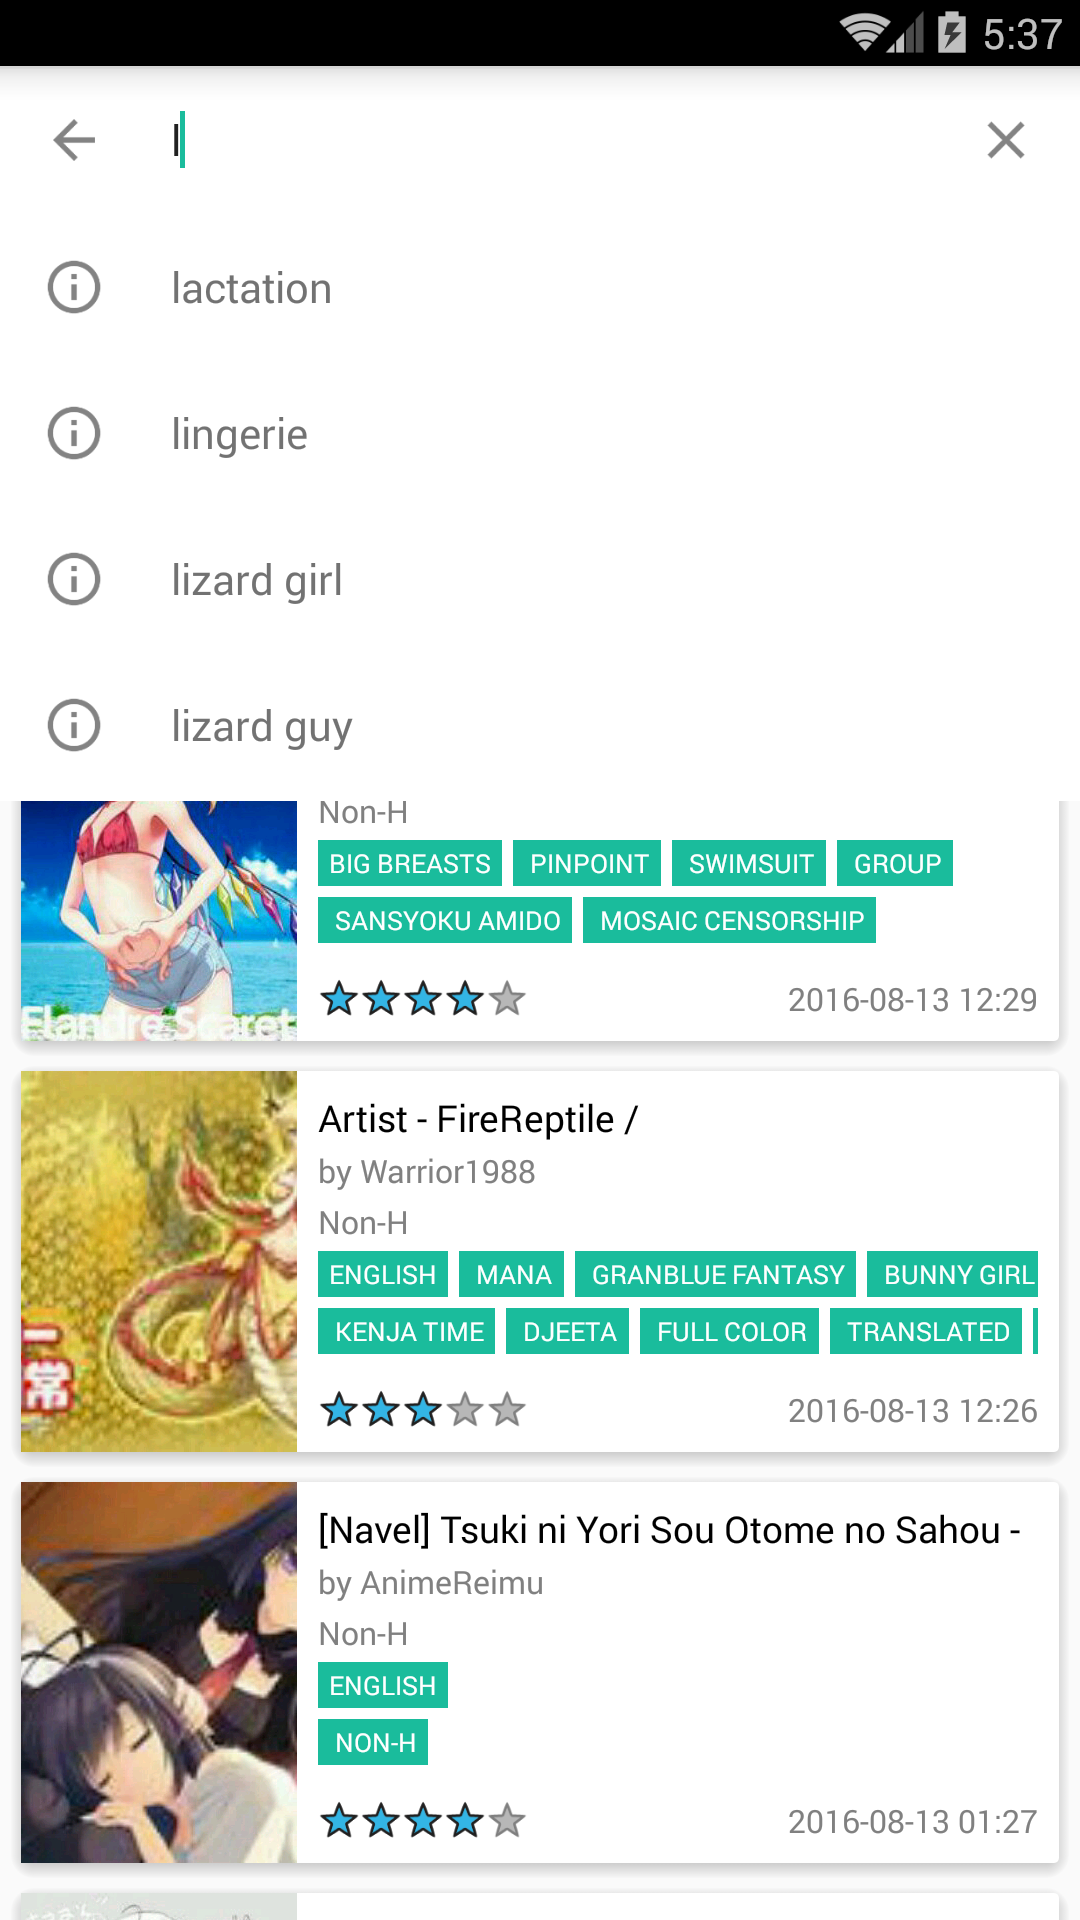
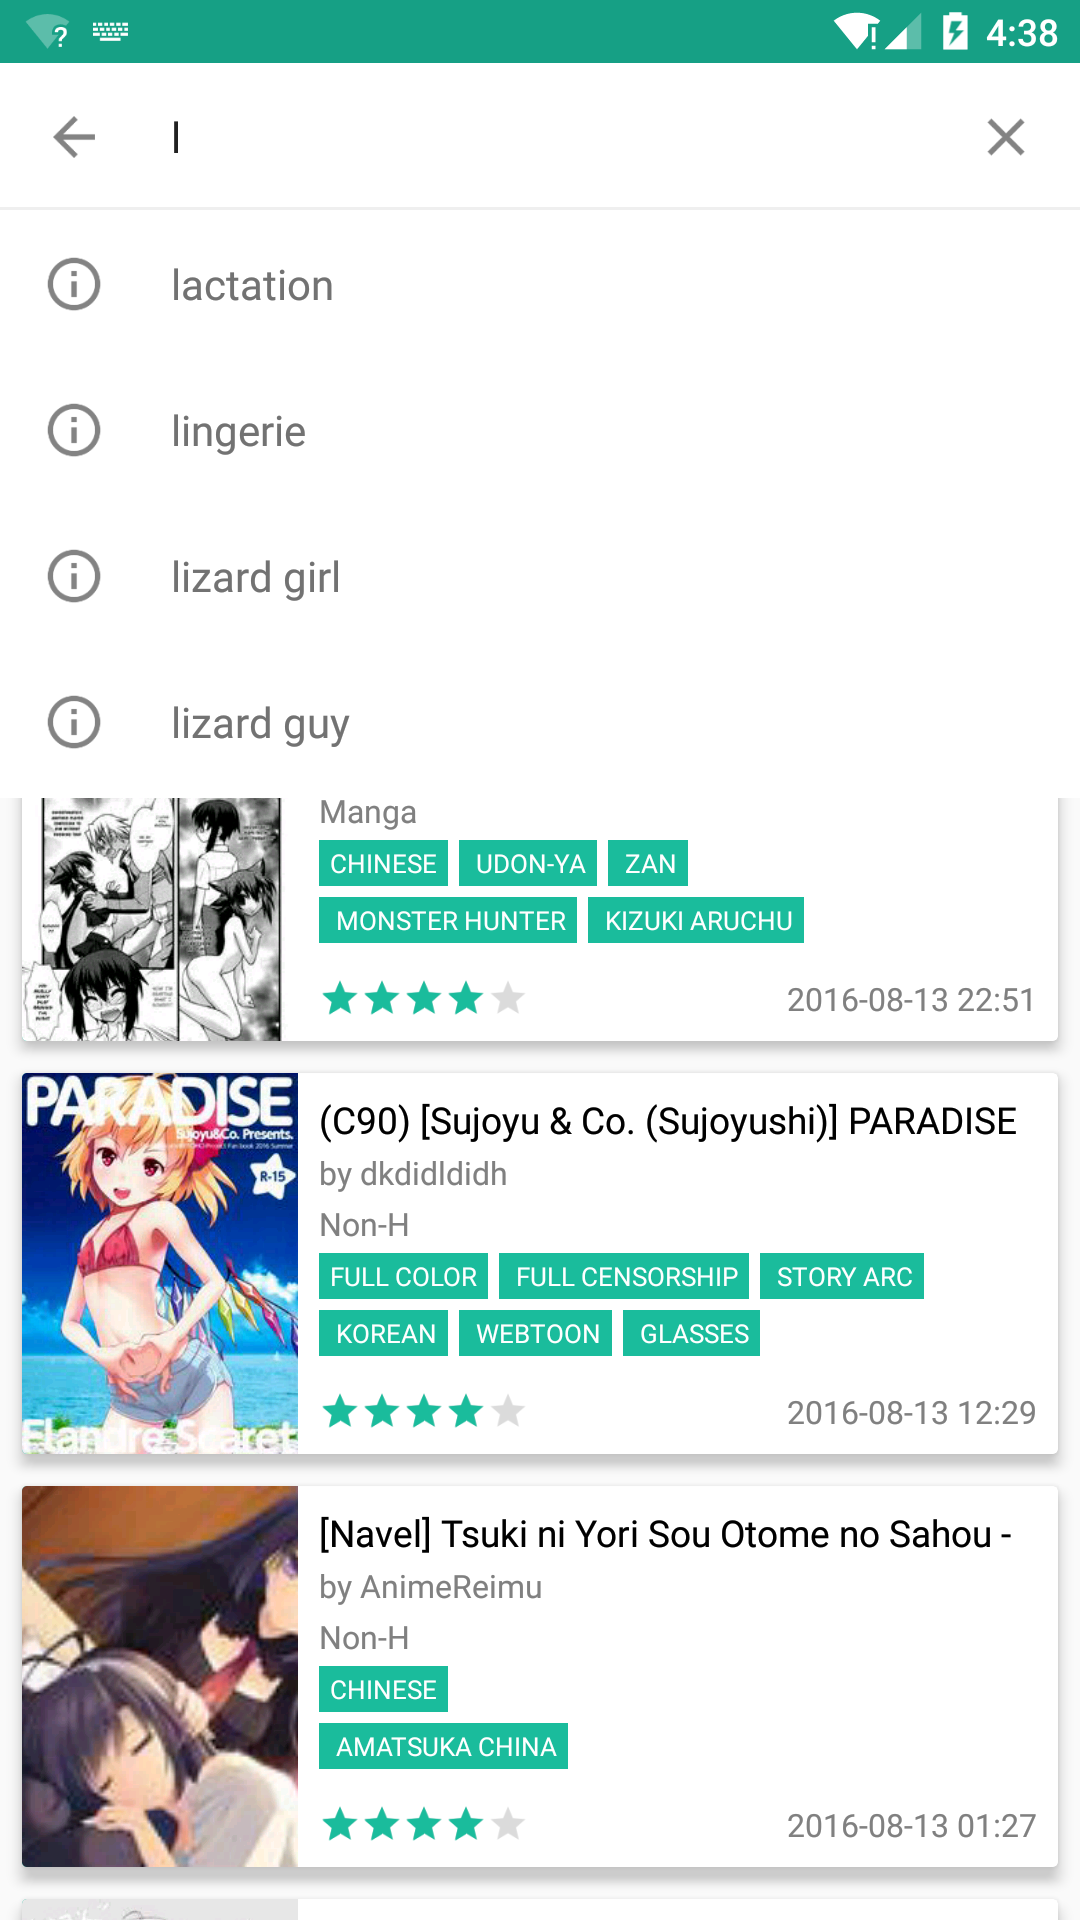
compatibility for 4.4 to 6.0 transparent status bar

diff --git a/app/src/main/java/ml/puredark/hviewer/helpers/MDStatusBarCompat.java b/app/src/main/java/ml/puredark/hviewer/helpers/MDStatusBarCompat.java
@@ -1,0 +1,167 @@
+package ml.puredark.hviewer.helpers;
+
+import android.app.Activity;
+import android.content.Context;
+import android.os.Build;
+import android.support.design.widget.AppBarLayout;
+import android.support.design.widget.CollapsingToolbarLayout;
+import android.support.design.widget.CoordinatorLayout;
+import android.support.v4.content.ContextCompat;
+import android.support.v4.view.ViewCompat;
+import android.support.v7.widget.Toolbar;
+import android.view.View;
+import android.view.ViewGroup;
+import android.widget.FrameLayout;
+import android.widget.ImageView;
+
+import ml.puredark.hviewer.R;
+
+/**
+ * @author 幸运Science-陈土燊
+ * @description
+ * @email chentushen.science@gmail.com,274240671@qq.com
+ * @data 2016/4/14
+ */
+public class MDStatusBarCompat {
+
+    private static View mStatusBarView;
+
+    /**
+     * 简单型状态栏(ToolBar)
+     *
+     * @param activity
+     */
+    public static void setOrdinaryToolBar(Activity activity) {
+        if (Build.VERSION.SDK_INT >= Build.VERSION_CODES.LOLLIPOP) {
+            activity.getWindow().setStatusBarColor(ContextCompat.getColor(activity, R.color.colorPrimaryDark));
+        } else if (Build.VERSION.SDK_INT == Build.VERSION_CODES.KITKAT) {
+            setKKStatusBar(activity, R.color.colorPrimaryDark);
+        }
+    }
+
+    /**
+     * 图片全屏透明状态栏（图片位于状态栏下面）
+     *
+     * @param activity
+     */
+    public static void setImageTransparent(Activity activity) {
+        if (Build.VERSION.SDK_INT >= Build.VERSION_CODES.LOLLIPOP) {
+            activity.getWindow().getDecorView().setSystemUiVisibility(View.SYSTEM_UI_FLAG_LAYOUT_FULLSCREEN);
+        }
+    }
+
+    /**
+     * 图片全屏半透明状态栏（图片位于状态栏下面）
+     *
+     * @param activity
+     */
+    public static void setImageTranslucent(Activity activity) {
+        if (Build.VERSION.SDK_INT >= Build.VERSION_CODES.LOLLIPOP) {
+            activity.getWindow().getDecorView().setSystemUiVisibility(View.SYSTEM_UI_FLAG_LAYOUT_FULLSCREEN);
+            activity.getWindow().setStatusBarColor(ContextCompat.getColor(activity, R.color.statusBar));
+        } else {
+            setKKStatusBar(activity, R.color.statusBar);
+        }
+    }
+
+    /**
+     * ToolBar+TabLayout状态栏(ToolBar可伸缩)
+     *
+     * @param activity
+     */
+    public static void setToolbarTabLayout(Activity activity) {
+        if (Build.VERSION.SDK_INT >= Build.VERSION_CODES.LOLLIPOP) {
+            activity.getWindow().setStatusBarColor(ContextCompat.getColor(activity, R.color.colorPrimaryDark));
+        }
+    }
+
+    /**
+     * DrawerLayout+ToolBar+TabLayout状态栏(ToolBar可伸缩)
+     *
+     * @param activity
+     * @param coordinatorLayout
+     */
+    public static void setDrawerToolbarTabLayout(Activity activity, CoordinatorLayout coordinatorLayout) {
+        if (Build.VERSION.SDK_INT == Build.VERSION_CODES.KITKAT) {
+            ViewGroup contentLayout = (ViewGroup) activity.findViewById(android.R.id.content);
+            contentLayout.getChildAt(0).setFitsSystemWindows(false);
+            coordinatorLayout.setFitsSystemWindows(true);
+            setKKStatusBar(activity, R.color.statusBar);
+        }
+    }
+
+    /**
+     * DrawerLayout+ToolBar型状态栏
+     *
+     * @param activity
+     */
+    public static void setDrawerToolbar(Activity activity) {
+        if (Build.VERSION.SDK_INT == Build.VERSION_CODES.KITKAT) {
+            ViewGroup contentLayout = (ViewGroup) activity.findViewById(android.R.id.content);
+            contentLayout.getChildAt(0).setFitsSystemWindows(false);
+            setKKStatusBar(activity, R.color.statusBar);
+        }
+    }
+
+    /**
+     * CollapsingToolbarLayout状态栏(可折叠图片)
+     *
+     * @param activity
+     * @param coordinatorLayout
+     * @param appBarLayout
+     * @param imageView
+     * @param toolbar
+     */
+    public static void setCollapsingToolbar(Activity activity, CoordinatorLayout coordinatorLayout,
+                                            AppBarLayout appBarLayout, ImageView imageView, Toolbar toolbar) {
+        if (Build.VERSION.SDK_INT == Build.VERSION_CODES.KITKAT) {
+            coordinatorLayout.setFitsSystemWindows(false);
+            appBarLayout.setFitsSystemWindows(false);
+            imageView.setFitsSystemWindows(false);
+            toolbar.setFitsSystemWindows(true);
+            FrameLayout.LayoutParams lp = (FrameLayout.LayoutParams) toolbar.getLayoutParams();
+            lp.height = (int) (getStatusBarHeight(activity) +
+                    activity.getResources().getDimension(R.dimen.abc_action_bar_default_height_material));
+            toolbar.setLayoutParams(lp);
+            setKKStatusBar(activity, R.color.statusBar);
+            setCollapsingToolbarStatus(appBarLayout);
+        }
+    }
+
+    /**
+     * Android4.4上CollapsingToolbar折叠时statusBar显示和隐藏
+     *
+     * @param appBarLayout
+     */
+    private static void setCollapsingToolbarStatus(AppBarLayout appBarLayout) {
+        ViewCompat.setAlpha(mStatusBarView, 1);
+        appBarLayout.addOnOffsetChangedListener(new AppBarLayout.OnOffsetChangedListener() {
+            @Override
+            public void onOffsetChanged(AppBarLayout appBarLayout, int verticalOffset) {
+                int maxScroll = appBarLayout.getTotalScrollRange();
+                float percentage = (float) Math.abs(verticalOffset) / (float) maxScroll;
+                ViewCompat.setAlpha(mStatusBarView, percentage);
+            }
+        });
+    }
+
+    private static void setKKStatusBar(Activity activity, int statusBarColor) {
+        ViewGroup contentView = (ViewGroup) activity.findViewById(android.R.id.content);
+        mStatusBarView = contentView.getChildAt(0);
+        //改变颜色时避免重复添加statusBarView
+        if (mStatusBarView != null && mStatusBarView.getMeasuredHeight() == getStatusBarHeight(activity)) {
+            mStatusBarView.setBackgroundColor(ContextCompat.getColor(activity, statusBarColor));
+            return;
+        }
+        mStatusBarView = new View(activity);
+        ViewGroup.LayoutParams lp = new ViewGroup.LayoutParams(ViewGroup.LayoutParams.MATCH_PARENT,
+                getStatusBarHeight(activity));
+        mStatusBarView.setBackgroundColor(ContextCompat.getColor(activity, statusBarColor));
+        contentView.addView(mStatusBarView, lp);
+    }
+
+    private static int getStatusBarHeight(Context context) {
+        int resourceId = context.getResources().getIdentifier("status_bar_height", "dimen", "android");
+        return context.getResources().getDimensionPixelSize(resourceId);
+    }
+}

diff --git a/app/src/main/java/ml/puredark/hviewer/activities/CollectionActivity.java b/app/src/main/java/ml/puredark/hviewer/activities/CollectionActivity.java
@@ -4,11 +4,13 @@ import android.content.Intent;
 import android.graphics.Bitmap;
 import android.os.Bundle;
 import android.support.design.widget.AppBarLayout;
+import android.support.design.widget.CoordinatorLayout;
 import android.support.v7.widget.GridLayoutManager;
 import android.support.v7.widget.OrientationHelper;
 import android.support.v7.widget.RecyclerView;
 import android.support.v7.widget.StaggeredGridLayoutManager;
 import android.support.v7.widget.Toolbar;
+import android.util.Log;
 import android.view.View;
 import android.view.animation.Animation;
 import android.view.animation.LinearInterpolator;
@@ -49,12 +51,15 @@ import ml.puredark.hviewer.customs.ScalingImageView;
 import ml.puredark.hviewer.dataproviders.ListDataProvider;
 import ml.puredark.hviewer.helpers.FastBlur;
 import ml.puredark.hviewer.helpers.HViewerHttpClient;
+import ml.puredark.hviewer.helpers.MDStatusBarCompat;
 import ml.puredark.hviewer.helpers.RuleParser;
 import ml.puredark.hviewer.utils.DensityUtil;
 
 
 public class CollectionActivity extends AnimationActivity implements AppBarLayout.OnOffsetChangedListener {
 
+    @BindView(R.id.coordinator_layout)
+    CoordinatorLayout coordinatorLayout;
     @BindView(R.id.backdrop)
     ScalingImageView backdrop;
     @BindView(R.id.toolbar)
@@ -89,6 +94,7 @@ public class CollectionActivity extends AnimationActivity implements AppBarLayou
         super.onCreate(savedInstanceState);
         setContentView(R.layout.activity_collection);
         ButterKnife.bind(this);
+        MDStatusBarCompat.setCollapsingToolbar(this, coordinatorLayout, appBar, backdrop, toolbar);
 
         //获取传递过来的Collection实例
         if (HViewerApplication.temp instanceof Site)
@@ -145,12 +151,13 @@ public class CollectionActivity extends AnimationActivity implements AppBarLayou
                                 public void run() {
                                     backdrop.setImageBitmap(overlay);
                                     /* 让背景的封面大图来回缓慢移动 */
-                                    float targetY = (backdrop.getHeight() > backdrop.getWidth()) ? -0.4f : 0f;
+                                    float targetY = (overlay.getHeight() > overlay.getWidth()) ? -0.4f : 0f;
+                                    Log.d("CollectionActivity", "targetY:" + targetY);
                                     Animation translateAnimation = new TranslateAnimation(TranslateAnimation.RELATIVE_TO_SELF, 0f,
                                             TranslateAnimation.RELATIVE_TO_SELF, 0f,
                                             TranslateAnimation.RELATIVE_TO_SELF, 0f,
                                             TranslateAnimation.RELATIVE_TO_SELF, targetY);
-                                    translateAnimation.setDuration(30000);
+                                    translateAnimation.setDuration(50000);
                                     translateAnimation.setRepeatCount(-1);
                                     translateAnimation.setRepeatMode(Animation.REVERSE);
                                     translateAnimation.setInterpolator(new LinearInterpolator());

diff --git a/app/src/main/java/ml/puredark/hviewer/activities/MainActivity.java b/app/src/main/java/ml/puredark/hviewer/activities/MainActivity.java
@@ -1,12 +1,15 @@
 package ml.puredark.hviewer.activities;
 
+import android.app.Activity;
 import android.content.DialogInterface;
 import android.content.Intent;
 import android.os.Bundle;
 import android.os.Handler;
 import android.support.design.widget.AppBarLayout;
+import android.support.design.widget.CollapsingToolbarLayout;
 import android.support.design.widget.CoordinatorLayout;
 import android.support.design.widget.FloatingActionButton;
+import android.support.v4.content.ContextCompat;
 import android.support.v4.view.GravityCompat;
 import android.support.v4.widget.DrawerLayout;
 import android.support.v7.app.ActionBarDrawerToggle;
@@ -18,6 +21,7 @@ import android.util.Log;
 import android.view.Menu;
 import android.view.MenuItem;
 import android.view.View;
+import android.view.ViewGroup;
 import android.widget.AdapterView;
 import android.widget.ImageView;
 import android.widget.LinearLayout;
@@ -42,6 +46,7 @@ import ml.puredark.hviewer.dataproviders.AbstractDataProvider;
 import ml.puredark.hviewer.dataproviders.ListDataProvider;
 import ml.puredark.hviewer.fragments.CollectionFragment;
 import ml.puredark.hviewer.fragments.MyFragment;
+import ml.puredark.hviewer.helpers.MDStatusBarCompat;
 import ml.puredark.hviewer.holders.SearchHistoryHolder;
 
 import static ml.puredark.hviewer.HViewerApplication.siteHolder;
@@ -53,7 +58,7 @@ public class MainActivity extends AppCompatActivity {
     private static int RESULT_MODIFY_SITE = 2;
 
     @BindView(R.id.content)
-    CoordinatorLayout content;
+    CoordinatorLayout coordinatorLayout;
     @BindView(R.id.drawer_layout)
     DrawerLayout drawer;
     @BindView(R.id.app_bar)
@@ -85,9 +90,7 @@ public class MainActivity extends AppCompatActivity {
         super.onCreate(savedInstanceState);
         setContentView(R.layout.activity_main);
         ButterKnife.bind(this);
-
-        // Initialize user settings
-        //PreferenceManager.setDefaultValues(this, R.xml.preferences, false);
+        MDStatusBarCompat.setCollapsingToolbar(this, coordinatorLayout, appBar, backdrop, toolbar);
 
         // User interface
         setSupportActionBar(toolbar);
@@ -128,7 +131,7 @@ public class MainActivity extends AppCompatActivity {
                 searchView.setSuggestions(new String[0]);
                 isSuggestionEmpty = true;
                 searchView.clearFocus();
-                searchView.hideKeyboard(content);
+                searchView.hideKeyboard(coordinatorLayout);
                 searchView.dismissSuggestions();
                 return true;
             }

diff --git a/app/src/main/java/ml/puredark/hviewer/activities/AnimationActivity.java b/app/src/main/java/ml/puredark/hviewer/activities/AnimationActivity.java
@@ -13,6 +13,7 @@ import com.nineoldandroids.animation.Animator;
 
 import ml.puredark.hviewer.R;
 import ml.puredark.hviewer.customs.AnimationOnActivity;
+import ml.puredark.hviewer.helpers.MDStatusBarCompat;
 
 /**
  * Created by PureDark on 2016/8/13.
@@ -33,6 +34,7 @@ public class AnimationActivity extends AppCompatActivity implements AppBarLayout
     @Override
     protected void onCreate(Bundle savedInstanceState) {
         super.onCreate(savedInstanceState);
+        MDStatusBarCompat.setOrdinaryToolBar(this);
 
         /* 返回按钮图标 */
         btnReturnIcon = new DrawerArrowDrawable(this);

diff --git a/app/src/main/java/ml/puredark/hviewer/activities/AddSiteActivity.java b/app/src/main/java/ml/puredark/hviewer/activities/AddSiteActivity.java
@@ -25,6 +25,7 @@ import ml.puredark.hviewer.R;
 import ml.puredark.hviewer.beans.Site;
 import ml.puredark.hviewer.customs.SitePropViewHolder;
 import ml.puredark.hviewer.helpers.HViewerHttpClient;
+import ml.puredark.hviewer.helpers.MDStatusBarCompat;
 
 import static ml.puredark.hviewer.HViewerApplication.siteHolder;
 
